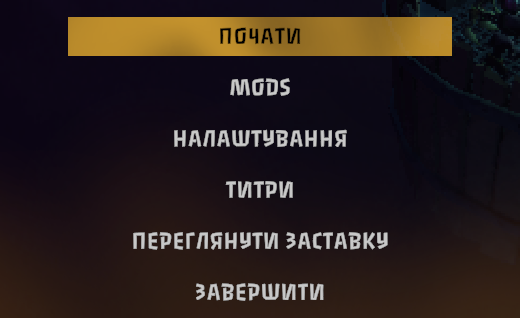
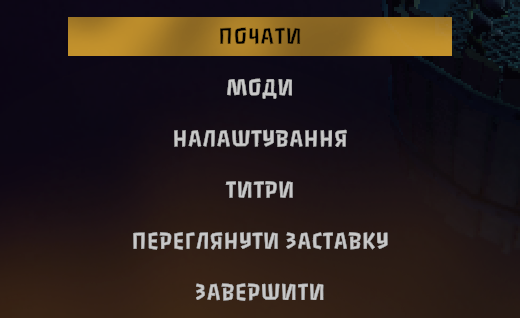
README: fresh screenshot with the whole menu in Cyrillic

diff --git a/README.md b/README.md
@@ -2,7 +2,7 @@
 
 Cyrillic letters for the Pit of Goblin main menu font.
 
-The main menu is drawn in Passero One, a font with no Cyrillic letters at all. So when you switch the game to Ukrainian or Russian, every menu button falls back to a plain sans-serif and the menu loses its look. This mod adds the missing letters, drawn to match the original, so that «ПОЧАТИ» and «НАЛАШТУВАННЯ» sit next to «MODS» as if they had always been there.
+The main menu is drawn in Passero One, a font with no Cyrillic letters at all. So when you switch the game to Ukrainian or Russian, every menu button falls back to a plain sans-serif and the menu loses its look. This mod adds the missing letters, drawn to match the original, so that «ПОЧАТИ» and «НАЛАШТУВАННЯ» look as if the font had always had them.
 
 ![The main menu in Ukrainian with this mod](https://raw.githubusercontent.com/largoz/POGFonts/main/docs/menu-uk.png)
 
